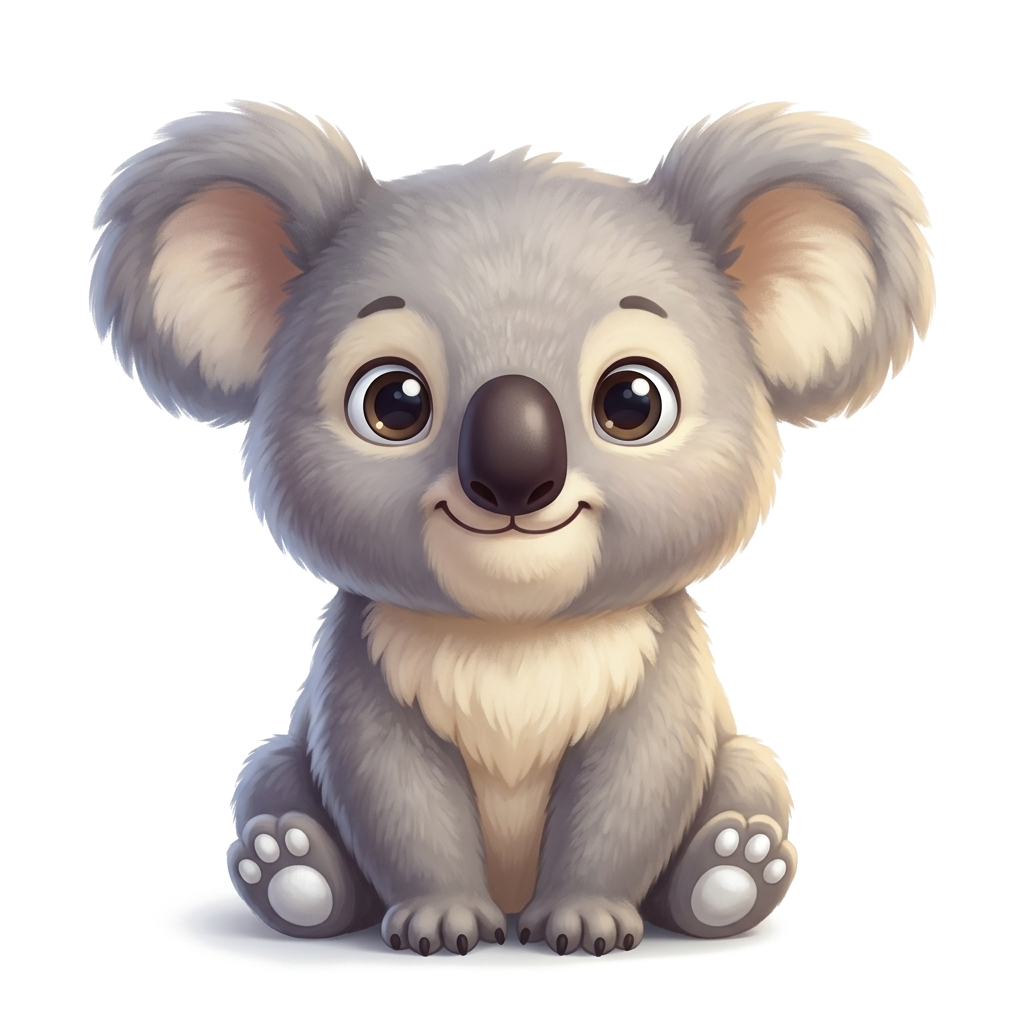
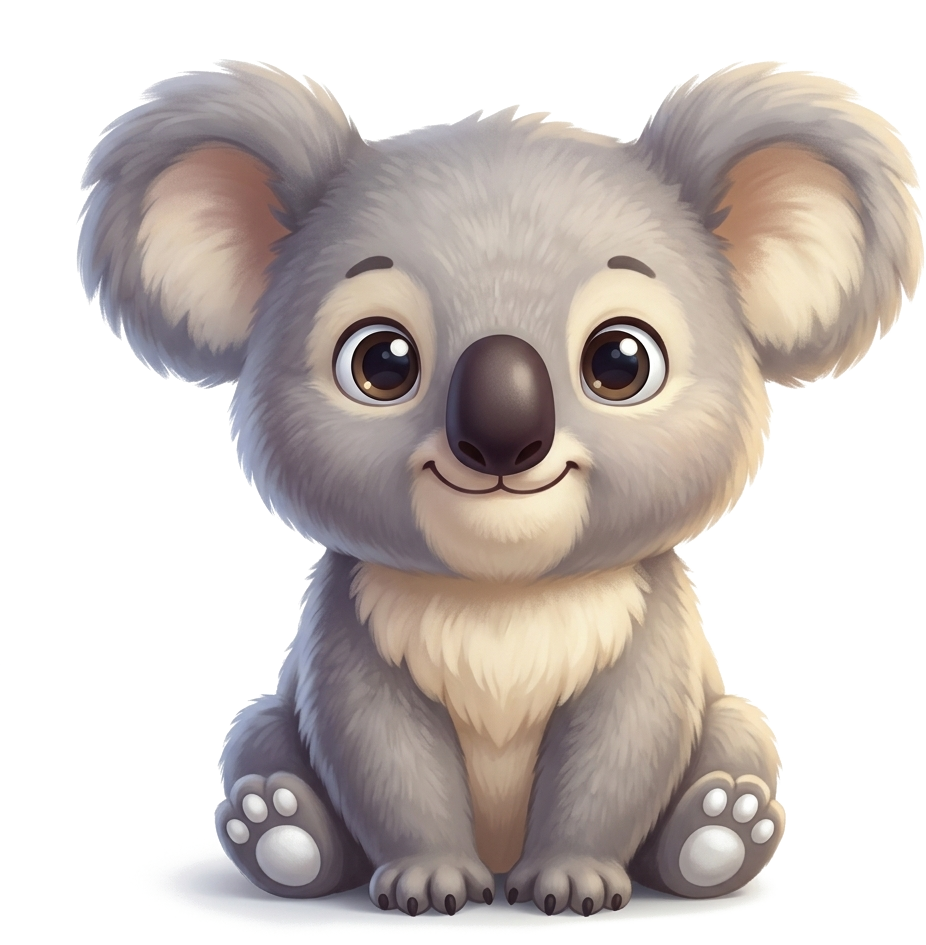
Download and integrate all necessary photos: resolve missing family and alphabet images, isolate 3D assets, align French alphabet (v=81)

diff --git a/js/alphabet.js b/js/alphabet.js
@@ -7,52 +7,52 @@ const alphabetDataEnglish = {
     D: { word: "Dog", phrase: "D for Dog", capital: "D", small: "d", frontImage: "assets/images/alphabet/D/Dog.png" },
     E: { word: "Elephant", phrase: "E for Elephant", capital: "E", small: "e", frontImage: "assets/images/alphabet/E/elephant.png" },
     F: { word: "Fish", phrase: "F for Fish", capital: "F", small: "f", frontImage: "assets/images/alphabet/F/fish.png" },
-    G: { word: "Grapes", phrase: "G for Grapes", capital: "G", small: "g", frontImage: "assets/images/color/green/grapes.png" },
+    G: { word: "Grapes", phrase: "G for Grapes", capital: "G", small: "g", frontImage: "assets/images/alphabet/G/grapes.png" },
     H: { word: "House", phrase: "H for House", capital: "H", small: "h", frontImage: "assets/images/alphabet/H/house.png" },
-    I: { word: "Ice Cube", phrase: "I for Ice Cube", capital: "I", small: "i", frontImage: "assets/images/geometry/cube/ice-cube.png" },
+    I: { word: "Igloo", phrase: "I for Igloo", capital: "I", small: "i", frontImage: "assets/images/alphabet/I/igloo.png" },
     J: { word: "Jellyfish", phrase: "J for Jellyfish", capital: "J", small: "j", frontImage: "assets/images/alphabet/J/jellyfish.png" },
-    K: { word: "Kite", phrase: "K for Kite", capital: "K", small: "k", frontImage: "assets/images/geometry/diamond/kite.png" },
-    L: { word: "Lion", phrase: "L for Lion", capital: "L", small: "l", frontImage: "assets/images/language-images/lion.png" },
+    K: { word: "Koala", phrase: "K for Koala", capital: "K", small: "k", frontImage: "assets/images/alphabet/K/koala.png" },
+    L: { word: "Lion", phrase: "L for Lion", capital: "L", small: "l", frontImage: "assets/images/alphabet/L/lion.png" },
     M: { word: "Mango", phrase: "M for Mango", capital: "M", small: "m", frontImage: "assets/images/alphabet/M/mango.png" },
     N: { word: "Nest", phrase: "N for Nest", capital: "N", small: "n", frontImage: "assets/images/alphabet/N/nest.png" },
-    O: { word: "Orange", phrase: "O for Orange", capital: "O", small: "o", frontImage: "assets/images/color/orange/orange.png" },
-    P: { word: "Pencil", phrase: "P for Pencil", capital: "P", small: "p", frontImage: "assets/images/number/pencil.png" },
+    O: { word: "Orange", phrase: "O for Orange", capital: "O", small: "o", frontImage: "assets/images/alphabet/O/orange.png" },
+    P: { word: "Pencil", phrase: "P for Pencil", capital: "P", small: "p", frontImage: "assets/images/alphabet/P/pencil.png" },
     Q: { word: "Queen", phrase: "Q for Queen", capital: "Q", small: "q", frontImage: "assets/images/alphabet/Q/queen.png" },
     R: { word: "Rainbow", phrase: "R for Rainbow", capital: "R", small: "r", frontImage: "assets/images/alphabet/R/rainbow.png" },
-    S: { word: "Sun", phrase: "S for Sun", capital: "S", small: "s", frontImage: "assets/images/color/yellow/sun.png" },
+    S: { word: "Sun", phrase: "S for Sun", capital: "S", small: "s", frontImage: "assets/images/alphabet/S/sun.png" },
     T: { word: "Tree", phrase: "T for Tree", capital: "T", small: "t", frontImage: "assets/images/alphabet/T/tree.png" },
     U: { word: "Umbrella", phrase: "U for Umbrella", capital: "U", small: "u", frontImage: "assets/images/alphabet/U/umbrella.png" },
     V: { word: "Volcano", phrase: "V for Volcano", capital: "V", small: "v", frontImage: "assets/images/alphabet/V/volcano.png" },
-    W: { word: "Watermelon", phrase: "W for Watermelon", capital: "W", small: "w", frontImage: "assets/images/geometry/oval/watermelon.png" },
+    W: { word: "Wagon", phrase: "W for Wagon", capital: "W", small: "w", frontImage: "assets/images/alphabet/W/wagon.png" },
     X: { word: "Xylophone", phrase: "X for Xylophone", capital: "X", small: "x", frontImage: "assets/images/alphabet/X/xylophone.png" },
     Y: { word: "Yo-Yo", phrase: "Y for Yo-Yo", capital: "Y", small: "y", frontImage: "assets/images/alphabet/Y/yo-yo.png" },
     Z: { word: "Zebra", phrase: "Z for Zebra", capital: "Z", small: "z", frontImage: "assets/images/alphabet/Z/zebra.png" }
 };
 
 const alphabetDataFrench = {
-    A: { word: "Avion", phrase: "A comme Avion", capital: "A", small: "a", frontImage: "assets/images/alphabet/A/astronaut.png" },
+    A: { word: "Astronaute", phrase: "A comme Astronaute", capital: "A", small: "a", frontImage: "assets/images/alphabet/A/astronaut.png" },
     B: { word: "Ballon", phrase: "B comme Ballon", capital: "B", small: "b", frontImage: "assets/images/alphabet/B/ball.png" },
     C: { word: "Chat", phrase: "C comme Chat", capital: "C", small: "c", frontImage: "assets/images/alphabet/C/cat.png" },
     D: { word: "Dauphin", phrase: "D comme Dauphin", capital: "D", small: "d", frontImage: "assets/images/alphabet/D/Dolphin.png" },
     E: { word: "Éléphant", phrase: "E comme Éléphant", capital: "E", small: "e", frontImage: "assets/images/alphabet/E/elephant.png" },
-    F: { word: "Poisson", phrase: "F comme Poisson", capital: "F", small: "f", frontImage: "assets/images/alphabet/F/fish.png" },
-    G: { word: "Gâteau", phrase: "G comme Gâteau", capital: "G", small: "g", frontImage: "assets/images/alphabet/C/Cake.png" },
-    H: { word: "Maison", phrase: "H comme Maison", capital: "H", small: "h", frontImage: "assets/images/alphabet/H/house.png" },
-    I: { word: "Glaçon", phrase: "I comme Glaçon", capital: "I", small: "i", frontImage: "assets/images/geometry/cube/ice-cube.png" },
-    J: { word: "Méduse", phrase: "J comme Méduse", capital: "J", small: "j", frontImage: "assets/images/alphabet/J/jellyfish.png" },
-    K: { word: "Cerf-volant", phrase: "K comme Cerf-volant", capital: "K", small: "k", frontImage: "assets/images/geometry/diamond/kite.png" },
-    L: { word: "Lion", phrase: "L comme Lion", capital: "L", small: "l", frontImage: "assets/images/language-images/lion.png" },
+    F: { word: "Fraise", phrase: "F comme Fraise", capital: "F", small: "f", frontImage: "assets/images/alphabet/F/fraise.png" },
+    G: { word: "Gâteau", phrase: "G comme Gâteau", capital: "G", small: "g", frontImage: "assets/images/alphabet/G/gateau.png" },
+    H: { word: "Hibou", phrase: "H comme Hibou", capital: "H", small: "h", frontImage: "assets/images/alphabet/H/hibou.png" },
+    I: { word: "Igloo", phrase: "I comme Igloo", capital: "I", small: "i", frontImage: "assets/images/alphabet/I/igloo.png" },
+    J: { word: "Jus", phrase: "J comme Jus", capital: "J", small: "j", frontImage: "assets/images/alphabet/J/jus.png" },
+    K: { word: "Koala", phrase: "K comme Koala", capital: "K", small: "k", frontImage: "assets/images/alphabet/K/koala.png" },
+    L: { word: "Lion", phrase: "L comme Lion", capital: "L", small: "l", frontImage: "assets/images/alphabet/L/lion.png" },
     M: { word: "Mangue", phrase: "M comme Mangue", capital: "M", small: "m", frontImage: "assets/images/alphabet/M/mango.png" },
     N: { word: "Nid", phrase: "N comme Nid", capital: "N", small: "n", frontImage: "assets/images/alphabet/N/nest.png" },
-    O: { word: "Orange", phrase: "O comme Orange", capital: "O", small: "o", frontImage: "assets/images/color/orange/orange.png" },
-    P: { word: "Papillon", phrase: "P comme Papillon", capital: "P", small: "p", frontImage: "assets/images/number/butterflies.png" },
-    Q: { word: "Reine", phrase: "Q comme Reine", capital: "Q", small: "q", frontImage: "assets/images/alphabet/Q/queen.png" },
-    R: { word: "Arc-en-ciel", phrase: "R comme Arc-en-ciel", capital: "R", small: "r", frontImage: "assets/images/alphabet/R/rainbow.png" },
-    S: { word: "Soleil", phrase: "S comme Soleil", capital: "S", small: "s", frontImage: "assets/images/color/yellow/sun.png" },
-    T: { word: "Arbre", phrase: "T comme Arbre", capital: "T", small: "t", frontImage: "assets/images/alphabet/T/tree.png" },
-    U: { word: "Parapluie", phrase: "U comme Parapluie", capital: "U", small: "u", frontImage: "assets/images/alphabet/U/umbrella.png" },
+    O: { word: "Orange", phrase: "O comme Orange", capital: "O", small: "o", frontImage: "assets/images/alphabet/O/orange.png" },
+    P: { word: "Papillon", phrase: "P comme Papillon", capital: "P", small: "p", frontImage: "assets/images/alphabet/P/papillon.png" },
+    Q: { word: "Quatre", phrase: "Q comme Quatre", capital: "Q", small: "q", frontImage: "assets/images/alphabet/Q/quatre.png" },
+    R: { word: "Rose", phrase: "R comme Rose", capital: "R", small: "r", frontImage: "assets/images/alphabet/R/rose.png" },
+    S: { word: "Soleil", phrase: "S comme Soleil", capital: "S", small: "s", frontImage: "assets/images/alphabet/S/soleil.png" },
+    T: { word: "Train", phrase: "T comme Train", capital: "T", small: "t", frontImage: "assets/images/alphabet/T/train.png" },
+    U: { word: "Un", phrase: "U comme Un", capital: "U", small: "u", frontImage: "assets/images/alphabet/U/un.png" },
     V: { word: "Volcan", phrase: "V comme Volcan", capital: "V", small: "v", frontImage: "assets/images/alphabet/V/volcano.png" },
-    W: { word: "Pastèque", phrase: "W comme Pastèque", capital: "W", small: "w", frontImage: "assets/images/geometry/oval/watermelon.png" },
+    W: { word: "Wagon", phrase: "W comme Wagon", capital: "W", small: "w", frontImage: "assets/images/alphabet/W/wagon.png" },
     X: { word: "Xylophone", phrase: "X comme Xylophone", capital: "X", small: "x", frontImage: "assets/images/alphabet/X/xylophone.png" },
     Y: { word: "Yo-Yo", phrase: "Y comme Yo-Yo", capital: "Y", small: "y", frontImage: "assets/images/alphabet/Y/yo-yo.png" },
     Z: { word: "Zèbre", phrase: "Z comme Zèbre", capital: "Z", small: "z", frontImage: "assets/images/alphabet/Z/zebra.png" }

diff --git a/practice.html b/practice.html
@@ -9,8 +9,8 @@
   <link rel="preconnect" href="https://fonts.googleapis.com">
   <link rel="preconnect" href="https://fonts.gstatic.com" crossorigin>
   <link href="https://fonts.googleapis.com/css2?family=Cairo:wght@600;700;800;900&family=Nunito:wght@600;700;800;900&display=swap" rel="stylesheet">
-  <link rel="stylesheet" href="css/common.css?v=80">
-  <link rel="stylesheet" href="css/fennygo.css?v=80">
+  <link rel="stylesheet" href="css/common.css?v=81">
+  <link rel="stylesheet" href="css/fennygo.css?v=81">
   <link rel="stylesheet" href="https://cdnjs.cloudflare.com/ajax/libs/font-awesome/6.5.2/css/all.min.css">
   <style>
     /* Reset & Base */
@@ -604,8 +604,8 @@
   <audio id="audioCheering" src="assets/images/music/cheering.mp3" preload="auto"></audio>
   <audio id="audioWrong" src="assets/images/music/wrong- sound.mp3" preload="auto"></audio>
 
-  <script src="js/app-lang.js?v=80"></script>
-  <script src="js/fenny-companion.js?v=80"></script>
+  <script src="js/app-lang.js?v=81"></script>
+  <script src="js/fenny-companion.js?v=81"></script>
   <script>
     (() => {
       "use strict";

diff --git a/vocabulary.html b/vocabulary.html
@@ -10,8 +10,8 @@
   <link rel="preconnect" href="https://fonts.gstatic.com" crossorigin>
   <link href="https://fonts.googleapis.com/css2?family=Cairo:wght@600;700;800;900&family=Nunito:wght@600;700;800;900&display=swap" rel="stylesheet">
   <link rel="stylesheet" href="https://cdnjs.cloudflare.com/ajax/libs/font-awesome/6.5.2/css/all.min.css">
-  <link rel="stylesheet" href="css/common.css?v=80">
-  <link rel="stylesheet" href="css/fennygo.css?v=80">
+  <link rel="stylesheet" href="css/common.css?v=81">
+  <link rel="stylesheet" href="css/fennygo.css?v=81">
   <style>
     :root {
       --voc-amber-glow: #fdeebc;
@@ -682,8 +682,8 @@
   <audio id="audioCheer" src="assets/images/music/cheering.mp3" preload="auto"></audio>
 
   <!-- Core Scripts -->
-  <script src="js/app-lang.js?v=80"></script>
-  <script src="js/fenny-companion.js?v=80"></script>
+  <script src="js/app-lang.js?v=81"></script>
+  <script src="js/fenny-companion.js?v=81"></script>
   <script>
     (() => {
       "use strict";

diff --git a/geometric.html b/geometric.html
@@ -5,8 +5,8 @@
   <meta name="viewport" content="width=device-width, initial-scale=1.0">
   <script src="https://cdn.tailwindcss.com"></script>
   <title>Geometry Learning</title>
-  <link rel="stylesheet" href="css/common.css?v=80">
-  <link rel="stylesheet" href="css/geometric.css?v=80">
+  <link rel="stylesheet" href="css/common.css?v=81">
+  <link rel="stylesheet" href="css/geometric.css?v=81">
 </head>
 <body class="geometry-page h-[100dvh] overflow-hidden flex flex-col">
   <main class="geometry-main page-scroll flex-1 min-h-0 overflow-y-auto overflow-x-hidden px-3 sm:px-5 py-7 sm:py-9 pb-16">
@@ -25,8 +25,8 @@
     </div>
   </div>
   <div id="footer"></div>
-  <script src="js/app-lang.js?v=80"></script>
-  <script src="js/include.js?v=80"></script>
-  <script src="js/geometric.js?v=80"></script>
+  <script src="js/app-lang.js?v=81"></script>
+  <script src="js/include.js?v=81"></script>
+  <script src="js/geometric.js?v=81"></script>
 </body>
 </html>

diff --git a/test.html b/test.html
@@ -9,8 +9,8 @@
   <link rel="preconnect" href="https://fonts.googleapis.com">
   <link rel="preconnect" href="https://fonts.gstatic.com" crossorigin>
   <link href="https://fonts.googleapis.com/css2?family=Cairo:wght@600;700;800;900&family=Nunito:wght@600;700;800;900&display=swap" rel="stylesheet">
-  <link rel="stylesheet" href="css/common.css?v=80">
-  <link rel="stylesheet" href="css/games.css?v=80">
+  <link rel="stylesheet" href="css/common.css?v=81">
+  <link rel="stylesheet" href="css/games.css?v=81">
   <link rel="stylesheet" href="https://cdnjs.cloudflare.com/ajax/libs/font-awesome/6.5.2/css/all.min.css">
   <style>
     .test-container {
@@ -149,7 +149,7 @@
     <canvas id="testConfettiCanvas" style="position:fixed;inset:0;pointer-events:none;z-index:9999;width:100%;height:100%;"></canvas>
   </div>
 
-  <script src="js/app-lang.js?v=80"></script>
+  <script src="js/app-lang.js?v=81"></script>
   <script>
     (() => {
       const QUIZ_ITEMS = {

diff --git a/tracing.html b/tracing.html
@@ -9,8 +9,8 @@
   <link rel="preconnect" href="https://fonts.googleapis.com">
   <link rel="preconnect" href="https://fonts.gstatic.com" crossorigin>
   <link href="https://fonts.googleapis.com/css2?family=Cairo:wght@600;700;800;900&family=Nunito:wght@600;700;800;900&display=swap" rel="stylesheet">
-  <link rel="stylesheet" href="css/common.css?v=80">
-  <link rel="stylesheet" href="css/games.css?v=80">
+  <link rel="stylesheet" href="css/common.css?v=81">
+  <link rel="stylesheet" href="css/games.css?v=81">
   <style>
     .tracing-workspace {
       width: min(96vw, 1280px);
@@ -442,8 +442,8 @@
     <canvas id="confettiCanvas" class="confetti-canvas"></canvas>
   </div>
 
-  <script src="js/app-lang.js?v=80"></script>
-  <script src="js/tracing.js?v=80"></script>
+  <script src="js/app-lang.js?v=81"></script>
+  <script src="js/tracing.js?v=81"></script>
   <script>
     (() => {
       const modeVisionBtn = document.getElementById("modeVisionBtn");

diff --git a/progression.html b/progression.html
@@ -9,8 +9,8 @@
   <link rel="preconnect" href="https://fonts.googleapis.com">
   <link rel="preconnect" href="https://fonts.gstatic.com" crossorigin>
   <link href="https://fonts.googleapis.com/css2?family=Cairo:wght@600;700;800;900&family=Nunito:wght@600;700;800;900&display=swap" rel="stylesheet">
-  <link rel="stylesheet" href="css/common.css?v=80">
-  <link rel="stylesheet" href="css/fennygo.css?v=80">
+  <link rel="stylesheet" href="css/common.css?v=81">
+  <link rel="stylesheet" href="css/fennygo.css?v=81">
   <link rel="stylesheet" href="https://cdnjs.cloudflare.com/ajax/libs/font-awesome/6.5.2/css/all.min.css">
   <style>
     html, body {
@@ -651,8 +651,8 @@
     </div>
   </div>
 
-  <script src="js/app-lang.js?v=80"></script>
-  <script src="js/fenny-companion.js?v=80"></script>
+  <script src="js/app-lang.js?v=81"></script>
+  <script src="js/fenny-companion.js?v=81"></script>
   <script>
     (() => {
       "use strict";

diff --git a/geometry.html b/geometry.html
@@ -5,8 +5,8 @@
   <meta name="viewport" content="width=device-width, initial-scale=1.0, maximum-scale=1.0, viewport-fit=cover">
   <script src="https://cdn.tailwindcss.com"></script>
   <title>Learn Geometry</title>
-  <link rel="stylesheet" href="css/common.css?v=80">
-  <link rel="stylesheet" href="css/geometry.css?v=80">
+  <link rel="stylesheet" href="css/common.css?v=81">
+  <link rel="stylesheet" href="css/geometry.css?v=81">
 </head>
 <body class="geometry-page">
   <div id="geometryApp" class="geometry-app">
@@ -85,8 +85,8 @@
     <div id="footer" class="geometry-footer"></div>
   </div>
 
-  <script src="js/app-lang.js?v=80"></script>
-  <script src="js/include.js?v=80"></script>
-  <script src="js/geometry.js?v=80"></script>
+  <script src="js/app-lang.js?v=81"></script>
+  <script src="js/include.js?v=81"></script>
+  <script src="js/geometry.js?v=81"></script>
 </body>
 </html>

diff --git a/stationery.html b/stationery.html
@@ -6,8 +6,8 @@
   <meta name="viewport" content="width=device-width, initial-scale=1.0, maximum-scale=1.0, viewport-fit=cover">
   <script src="https://cdn.tailwindcss.com"></script>
   <title>School Stationery</title>
-  <link rel="stylesheet" href="css/common.css?v=80">
-  <link rel="stylesheet" href="css/topics.css?v=80">
+  <link rel="stylesheet" href="css/common.css?v=81">
+  <link rel="stylesheet" href="css/topics.css?v=81">
   <link rel="stylesheet" href="https://cdnjs.cloudflare.com/ajax/libs/font-awesome/6.5.2/css/all.min.css">
 </head>
 
@@ -57,9 +57,9 @@
     </div>
   </div>
 
-  <script src="js/app-lang.js?v=80"></script>
-  <script src="js/include.js?v=80"></script>
-  <script src="js/stationery.js?v=80"></script>
+  <script src="js/app-lang.js?v=81"></script>
+  <script src="js/include.js?v=81"></script>
+  <script src="js/stationery.js?v=81"></script>
 </body>
 
 </html>

diff --git a/index.html b/index.html
@@ -44,7 +44,7 @@
   <link rel="preconnect" href="https://fonts.gstatic.com" crossorigin>
   <link href="https://fonts.googleapis.com/css2?family=Cairo:wght@600;700;800;900&family=Nunito:wght@600;700;800;900&display=swap" rel="stylesheet">
   <link rel="stylesheet" href="https://cdnjs.cloudflare.com/ajax/libs/font-awesome/6.5.2/css/all.min.css">
-  <link rel="stylesheet" href="css/fennygo.css?v=80">
+  <link rel="stylesheet" href="css/fennygo.css?v=81">
   <style>
     html {
       font-size: clamp(13px, 0.9vw, 15px);
@@ -1274,8 +1274,8 @@
     </div>
   </div>
 
-  <script src="js/app-lang.js?v=80"></script>
-  <script src="js/fenny-companion.js?v=80"></script>
+  <script src="js/app-lang.js?v=81"></script>
+  <script src="js/fenny-companion.js?v=81"></script>
   <script>
     (() => {
       /* ---------------- i18n (FR = HTML default) ---------------- */

diff --git a/daily-routine.html b/daily-routine.html
@@ -6,8 +6,8 @@
   <meta name="viewport" content="width=device-width, initial-scale=1.0, maximum-scale=1.0, viewport-fit=cover">
   <script src="https://cdn.tailwindcss.com"></script>
   <title>Daily Routine Activities</title>
-  <link rel="stylesheet" href="css/common.css?v=80">
-  <link rel="stylesheet" href="css/topics.css?v=80">
+  <link rel="stylesheet" href="css/common.css?v=81">
+  <link rel="stylesheet" href="css/topics.css?v=81">
 </head>
 
 <body class="topic-page daily-routine-page">
@@ -47,9 +47,9 @@
     </div>
   </div>
 
-  <script src="js/app-lang.js?v=80"></script>
-  <script src="js/include.js?v=80"></script>
-  <script src="js/daily-routine.js?v=80"></script>
+  <script src="js/app-lang.js?v=81"></script>
+  <script src="js/include.js?v=81"></script>
+  <script src="js/daily-routine.js?v=81"></script>
 </body>
 
 </html>

diff --git a/common-orders.html b/common-orders.html
@@ -6,8 +6,8 @@
   <meta name="viewport" content="width=device-width, initial-scale=1.0, maximum-scale=1.0, viewport-fit=cover">
   <script src="https://cdn.tailwindcss.com"></script>
   <title>Common Classroom Orders</title>
-  <link rel="stylesheet" href="css/common.css?v=80">
-  <link rel="stylesheet" href="css/topics.css?v=80">
+  <link rel="stylesheet" href="css/common.css?v=81">
+  <link rel="stylesheet" href="css/topics.css?v=81">
 </head>
 
 <body class="topic-page common-orders-page">
@@ -47,9 +47,9 @@
     </div>
   </div>
 
-  <script src="js/app-lang.js?v=80"></script>
-  <script src="js/include.js?v=80"></script>
-  <script src="js/common-orders.js?v=80"></script>
+  <script src="js/app-lang.js?v=81"></script>
+  <script src="js/include.js?v=81"></script>
+  <script src="js/common-orders.js?v=81"></script>
 </body>
 
 </html>
